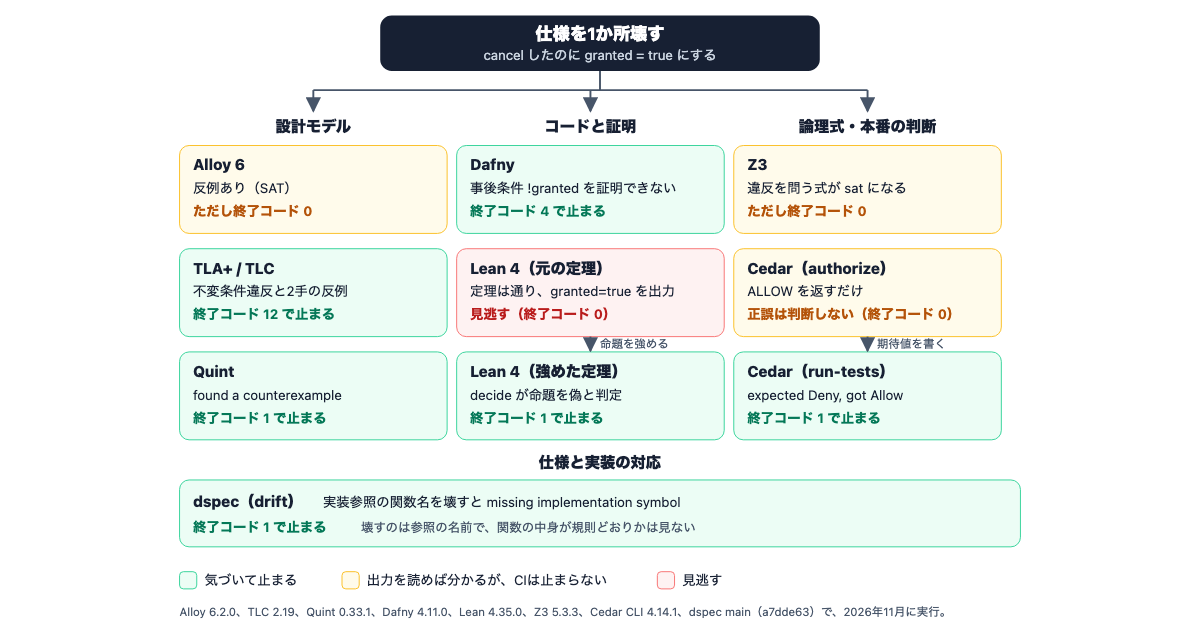
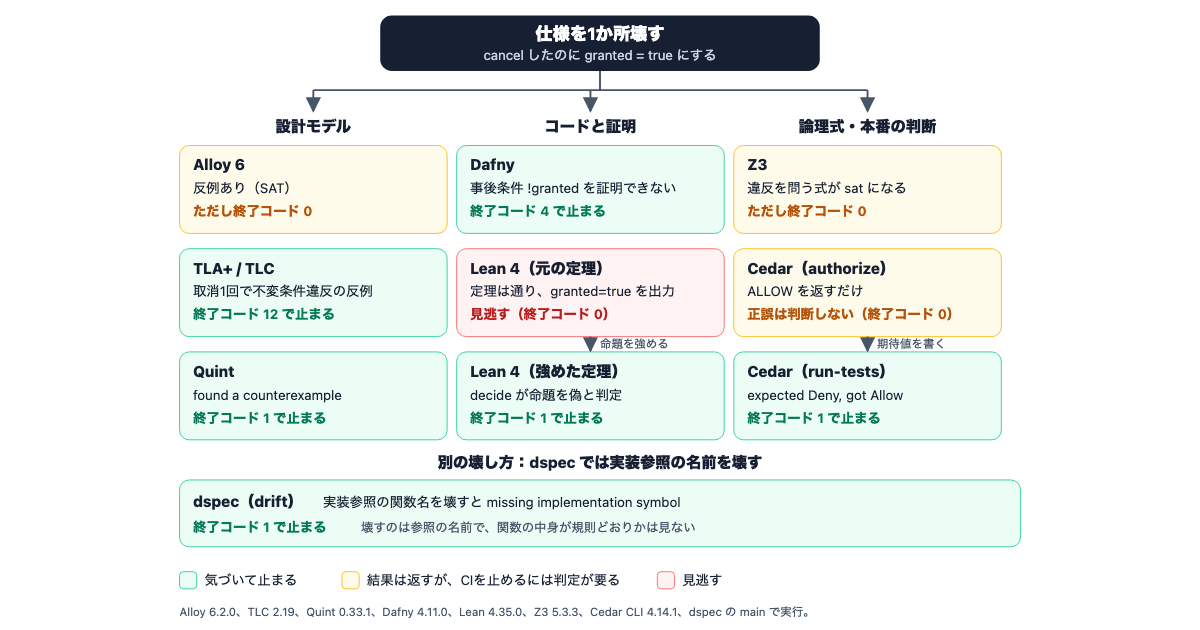
docs: separate the dspec experiment and fix CI advice in the formal methods article

diff --git a/scripts/formal_methods_approval_2026/README.md b/scripts/formal_methods_approval_2026/README.md
@@ -9,5 +9,14 @@ cancelled, and a cancelled request must never grant access.
 request grants access. Each tool is expected to reject the broken version;
 the article shows which ones do, and with which exit code.
 
+`broken/ApprovalOriginalTheorem.lean` is the broken step function with only
+the original, narrower theorem (`cancelledNeverGrants`). Lean accepts it,
+which is the point: that theorem does not cover the transition that broke.
+`Approval.lean` adds the stronger theorem, and `broken/Approval.lean` fails it.
+
+dspec is not in this folder. The article breaks an implementation reference in
+dspec's own model instead, because dspec checks spec-to-code links rather than
+the approval behaviour.
+
 `approval.cedar-tests.json` is the expected-decision test file for
 `cedar run-tests`.
